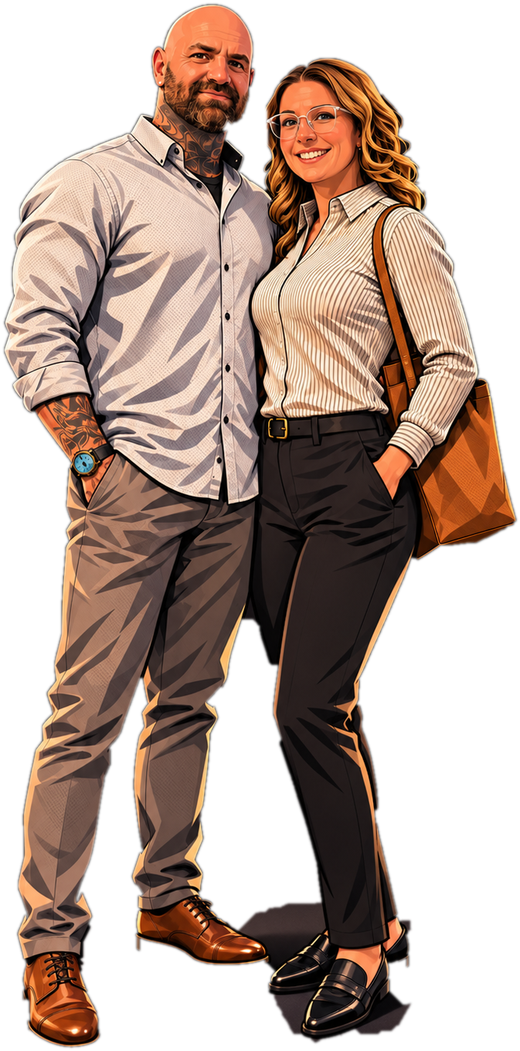
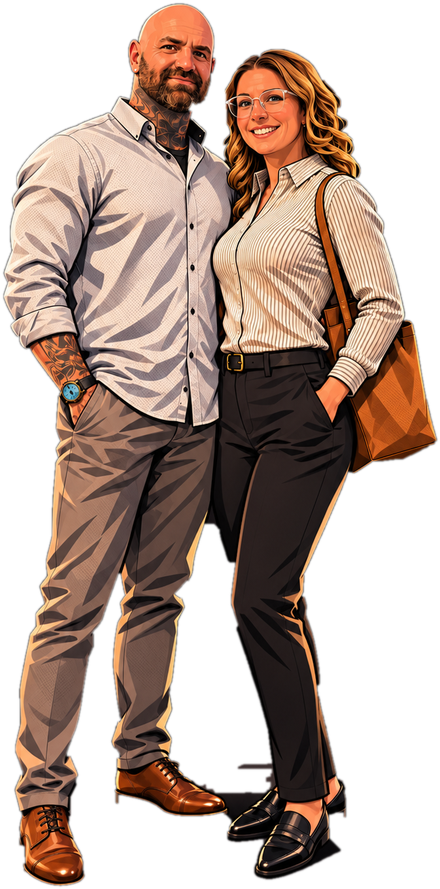
Smaller header, no quote, no dial text, quieter Gerald button, clean feet in portrait
Claude-Session: https://claude.ai/code/session_01WoTkRTHrDys8Z6X3484mRP

diff --git a/public/index.html b/public/index.html
@@ -118,22 +118,19 @@ a.btn{text-decoration:none;display:inline-block}
 .watch svg{width:min(54vw,215px);height:auto;filter:drop-shadow(0 18px 30px rgba(0,0,0,.8)) drop-shadow(0 0 22px rgba(212,175,55,.12))}
 .wdate{text-align:center;color:var(--gold);font-size:12px;letter-spacing:.3em;text-transform:uppercase;margin-bottom:10px}
 /* ---- Home: executive ---- */
-.hero{position:relative;display:flex;flex-direction:column;align-items:center;padding:22px 0 8px;margin:0 -16px 6px}
+.hero{position:relative;display:flex;flex-direction:column;align-items:center;padding:6px 0 4px;margin:0 -16px 4px}
 .hero .spot{position:absolute;left:50%;top:6px;width:min(92vw,420px);height:min(92vw,420px);transform:translateX(-50%);border-radius:50%;
   background:radial-gradient(circle,rgba(212,175,55,.16) 0%,rgba(212,175,55,.05) 38%,transparent 66%);pointer-events:none}
 @keyframes breathe{50%{opacity:.6;transform:translateX(-50%) scale(.96)}}
-.duo{position:relative;width:calc(100% + 32px);margin:0 -16px;height:clamp(400px,112vw,500px);overflow:hidden}
-.duo::before,.duo::after{content:"";position:absolute;left:0;right:0;height:16%;z-index:3;pointer-events:none}
-.duo::before{top:0;background:linear-gradient(#0a0a0a,rgba(10,10,10,0))}
-.duo::after{bottom:0;background:linear-gradient(rgba(10,10,10,0),#0a0a0a)}
-.us{margin:0;position:absolute;left:7%;bottom:8%;z-index:2;animation:up .8s .15s both}
-.us img{display:block;width:auto;height:clamp(250px,72vw,330px);filter:drop-shadow(0 14px 22px rgba(0,0,0,.75)) saturate(1.05);-webkit-touch-callout:none;user-select:none;pointer-events:none}
-.hero .watch{position:absolute;right:-9%;top:50%;width:min(88vw,400px);margin:0;min-height:0;transform:translateY(-50%);animation:none}
+.duo{position:relative;width:calc(100% + 32px);margin:0 -16px;height:clamp(270px,74vw,330px);overflow:visible}
+.us{margin:0;position:absolute;left:6%;bottom:9%;z-index:2;animation:up .8s .15s both}
+.us img{display:block;width:auto;height:clamp(190px,54vw,240px);filter:drop-shadow(0 14px 22px rgba(0,0,0,.75)) saturate(1.05);-webkit-touch-callout:none;user-select:none;pointer-events:none}
+.hero .watch{position:absolute;right:-6%;top:50%;width:min(64vw,290px);margin:0;min-height:0;transform:translateY(-50%);animation:none}
 .hero .watch svg{width:100%;max-width:none;height:auto;display:block;filter:none}
 .qotd{margin:16px 26px 0;padding:0;text-align:center;font:italic 400 17px/1.45 "Didot","Bodoni 72",Georgia,serif;color:#efe6cf;max-width:520px;animation:up .8s .3s both}
 .qotd .qm{color:var(--gold);font-size:22px;line-height:0;vertical-align:-4px;margin:0 2px}
 .qotd cite{display:block;margin-top:8px;font:600 9.5px/1 -apple-system,sans-serif;font-style:normal;letter-spacing:.3em;text-transform:uppercase;color:#8d8471}
-.crest{display:flex;align-items:center;gap:14px;margin-top:18px;font:500 21px/1 "Didot","Bodoni 72",Georgia,serif;letter-spacing:.42em;text-transform:uppercase;padding-left:.42em;animation:up .8s .2s both}
+.crest{display:flex;align-items:center;gap:14px;margin-top:4px;font:500 21px/1 "Didot","Bodoni 72",Georgia,serif;letter-spacing:.42em;text-transform:uppercase;padding-left:.42em;animation:up .8s .2s both}
 .crest span{background:var(--goldg);background-size:200% 100%;-webkit-background-clip:text;background-clip:text;color:transparent;animation:sheen 6s linear infinite}
 .crest i{display:block;width:34px;height:1px;flex:none;background:linear-gradient(90deg,transparent,var(--gold))}
 .crest i:last-child{background:linear-gradient(90deg,var(--gold),transparent)}
@@ -187,8 +184,7 @@ a.lux:active{transform:scale(.985)}
   background:rgba(8,8,7,.75);border:1px solid rgba(212,175,55,.45);box-shadow:0 10px 30px rgba(0,0,0,.6),inset 0 1px 0 rgba(255,236,190,.06);animation:up .8s .35s both;transition:transform .2s,border-color .2s}
 .askbar:active{transform:scale(.98);border-color:var(--gold2)}
 .askbar .chev{color:var(--gold);font-size:20px}
-.gfab{position:fixed;right:16px;bottom:calc(env(safe-area-inset-bottom) + var(--tab) + 16px);z-index:31;width:54px;height:54px;border-radius:50%;border:0;cursor:pointer;background:var(--goldg);background-size:200% 100%;color:#1a1306;
-  font:700 24px/1 "Didot","Bodoni 72",Georgia,serif;box-shadow:0 10px 28px rgba(0,0,0,.6),0 0 0 1px rgba(255,240,190,.4),0 0 22px rgba(212,175,55,.35);animation:sheen 6s linear infinite,up .6s .6s both;transition:transform .2s}
+.gfab{position:fixed;right:16px;bottom:calc(env(safe-area-inset-bottom) + var(--tab) + 16px);z-index:31;width:48px;height:48px;border-radius:50%;cursor:pointer;background:radial-gradient(circle at 35% 30%,#3a2f17,#14110a 70%);border:1px solid rgba(212,175,55,.55);color:#c9a24a;font:700 21px/1 "Didot","Bodoni 72",Georgia,serif;box-shadow:0 8px 22px rgba(0,0,0,.65);opacity:.92;animation:up .6s .6s both;transition:transform .2s}
 .gfab:active{transform:scale(.9)}
 .gsheet{display:flex;flex-direction:column;height:86vh;padding-bottom:calc(env(safe-area-inset-bottom) + 12px)}
 .g-head{display:flex;align-items:center;gap:12px;padding-bottom:12px;border-bottom:1px solid rgba(212,175,55,.2)}
@@ -221,6 +217,6 @@ nav.tabs .ind{position:absolute;top:-9px;height:2px;width:20%;background:var(--g
 <body>
 <div id="cf"></div>
 <main id="app"><div class="empty">Loading…</div></main>
-<script src="/app.js?v=17"></script>
+<script src="/app.js?v=19"></script>
 </body>
 </html>

diff --git a/public/app.js b/public/app.js
@@ -172,8 +172,9 @@
     };
     const hand = (id, len, w) => `<g id="${id}"><path d="M${c - w} ${cy + 14} L${c - w * 0.75} ${cy - len + 14} L${c} ${cy - len} L${c + w * 0.75} ${cy - len + 14} L${c + w} ${cy + 14} Z" fill="rgba(217,180,95,.16)" stroke="${G2}" stroke-width="1.1" stroke-linejoin="round"/><line x1="${c}" y1="${cy - len + 16}" x2="${c}" y2="${cy - 12}" stroke="${G2}" stroke-width=".6"/></g>`;
     return `<svg viewBox="0 0 300 440" aria-label="Watch" id="watchSvg" style="cursor:pointer">
+      <defs><linearGradient id="braceFade" gradientUnits="userSpaceOnUse" x1="0" y1="0" x2="0" y2="440"><stop offset="0" stop-color="${G}" stop-opacity="0"/><stop offset=".19" stop-color="${G}"/><stop offset=".81" stop-color="${G}"/><stop offset="1" stop-color="${G}" stop-opacity="0"/></linearGradient></defs>
       <g fill="none" stroke="${G}" stroke-width="1" stroke-linecap="round" stroke-linejoin="round">
-        ${links(-30, 92)}${links(348, 470)}
+        <g stroke="url(#braceFade)">${links(0, 92)}${links(348, 440)}</g>
         <path d="M88 92 C76 112 66 140 62 170 M212 92 C224 112 234 140 238 170 M88 348 C76 328 66 300 62 270 M212 348 C224 328 234 300 238 270"/>
         <path d="M84 98 H216 M84 342 H216" stroke="${G3}"/>
         <rect x="273" y="204" width="13" height="32" rx="3"/>${Array.from({ length: 7 }, (_, i) => `<line x1="${275 + i * 1.6}" y1="205" x2="${275 + i * 1.6}" y2="235" stroke-width=".4"/>`).join("")}
@@ -196,8 +197,6 @@
       ${bez}
       <path id="tachArc" d="M ${P(9, 118.5)[0]} ${P(9, 118.5)[1]} A 118.5 118.5 0 0 1 ${P(38, 118.5)[0]} ${P(38, 118.5)[1]}" fill="none"/>
       <text font-size="7" letter-spacing="1.5" fill="${G2}" font-family="${F}" dy="2.6"><textPath href="#tachArc">BLUMENFELD</textPath></text>
-      <text x="${c + 30}" y="${cy - 20}" text-anchor="middle" font-size="8" letter-spacing="2" fill="${G2}" font-family="Didot,'Bodoni 72',Georgia,serif">LIFE</text>
-      <text x="${c + 30}" y="${cy - 13}" text-anchor="middle" font-size="3.6" letter-spacing="1.2" fill="${G}" font-family="${F}">CHRONOGRAPH</text>
       <text id="wDay" x="${c + 61}" y="${cy + 3}" text-anchor="middle" font-size="7.5" fill="${G2}" font-family="${F}">MON</text>
       <text id="wDate" x="${c + 80}" y="${cy + 3}" text-anchor="middle" font-size="8" fill="${G2}" font-family="${F}">1</text>
       ${hand("hh", 60, 4.6)}${hand("mm", 92, 3.6)}
@@ -284,15 +283,13 @@
     const nextTodo = open[0] ? esc(open[0].text) + (open[0].due ? ` · ${open[0].due === today ? "today" : fmtDay(open[0].due)}` : "") : "Nothing open";
     const nextPkg = ofd ? `${ofd} out for delivery` : active[0]?.status ? `${esc(active[0].label || "Package")} · ${esc(active[0].status)}` : `${active.length} personal · ${trimIn} Trim PO${trimIn === 1 ? "" : "s"}`;
 
-    const q = QUOTES[dayOfYear() % QUOTES.length];
     return `<section class="hero">
         <div class="spot"></div>
         <div class="duo">
-          <figure class="us"><picture><source srcset="/us.webp?v=5" type="image/webp"><img src="/us.png?v=5" alt="Jeff and Lindsey" draggable="false"></picture></figure>
+          <figure class="us"><picture><source srcset="/us.webp?v=6" type="image/webp"><img src="/us.png?v=6" alt="Jeff and Lindsey" draggable="false"></picture></figure>
           <div class="watch">${watchSVG()}</div>
         </div>
         <div class="crest"><i></i><span>Blumenfeld</span><i></i></div>
-        <blockquote class="qotd"><span class="qm">“</span>${esc(q)}<span class="qm">”</span><cite>Quote of the day</cite></blockquote>
         <button class="askbar" data-act="gerald"><span class="gdot">G</span><span class="grow">Ask Gerald anything…</span><span class="chev">›</span></button>
       </section>
       <a class="lux" href="#money" style="--i:0"><div class="lux-h"><span>Portfolio</span><span class="chev">›</span></div>${portfolio}</a>
